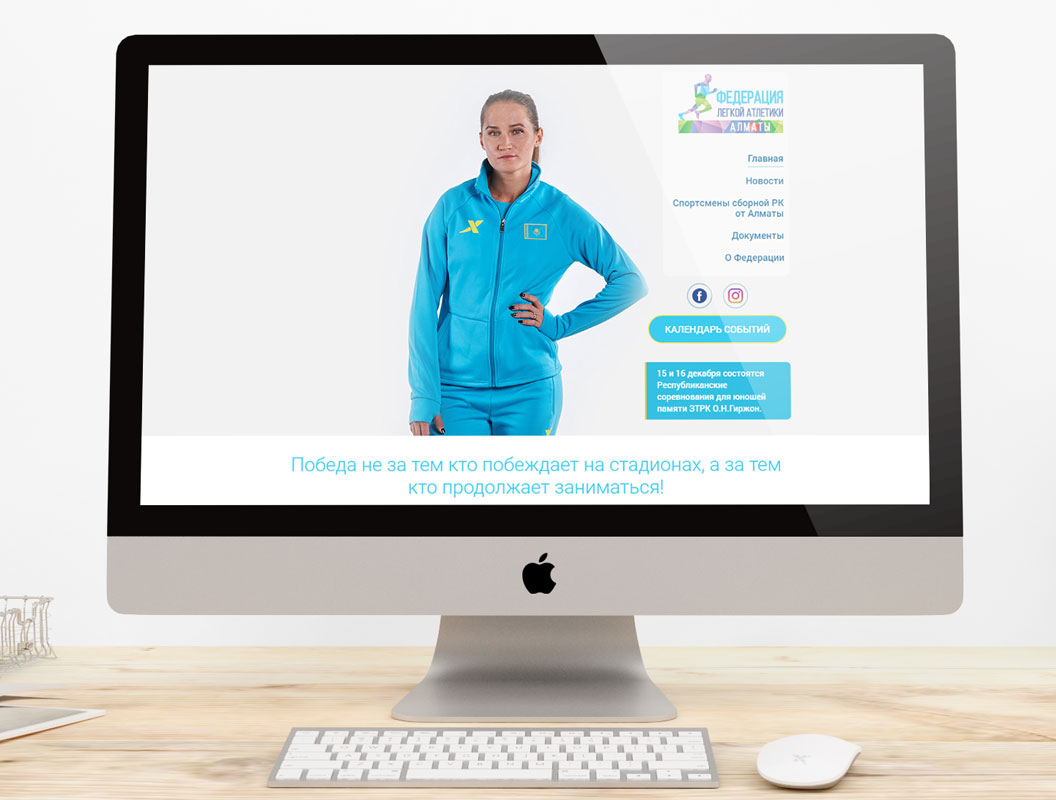
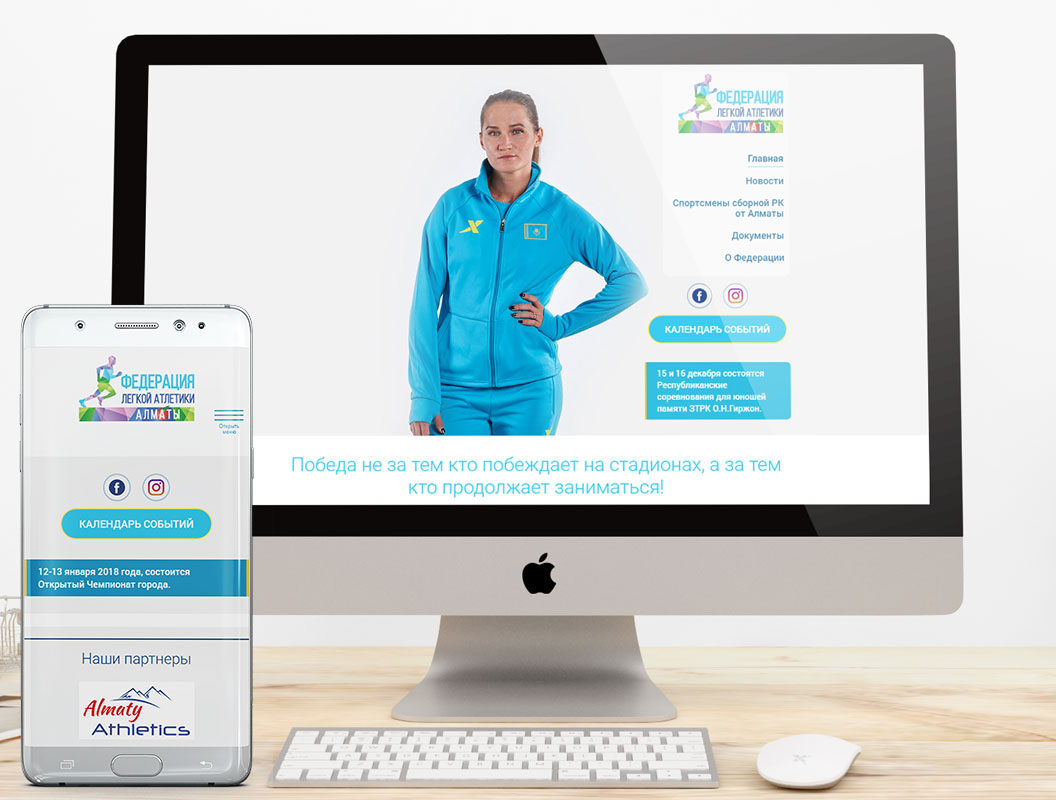
add mobile ver site

Changed region(s): [[0.0, 0.375, 0.25, 1.0]]

diff --git a/portfolio/index.html b/portfolio/index.html
@@ -6,7 +6,7 @@
   <title>Портфолио Михаил Иванов</title>
   <meta name="description" content="Web, Веб-разработка, Портфолио">
   <meta name="viewport" content="width=device-width,initial-scale=1">
-  <meta name="keywords" content="web, веб-разработка, портфолио">
+  <meta name="keywords" content="web, веб-разработка, портфолио, html, css, js">
   <link href="https://fonts.googleapis.com/css?family=Roboto:100,300,400,500,700&amp;subset=cyrillic" rel="stylesheet">
   <link href="css/normalize.css" rel="stylesheet" type="text/css">
   <link href="css/styles.css" rel="stylesheet" type="text/css">
@@ -38,8 +38,7 @@
       <h2 class="visually-hidden"><a name="portfol"></a> Основное содержание</h2>
       <ul class="portfolio-block">
         <li class="portfolio-block__item">
-          <a href="http://almatyathletics.com/"><img src="img/portfolioIMG-06.jpg" alt="site" width="528"
-                                                     height="400"></a>
+          <a href="http://almatyathletics.com/"><img src="img/portfolioIMG-07.jpg" alt="site" width="528" height="400"></a>
         </li>
         <li class="portfolio-block__item">
           <a href="https://mikeiv.github.io/pink/"><img src="img/portfolioIMG-05.jpg" alt="site" width="528" height="400"></a>
